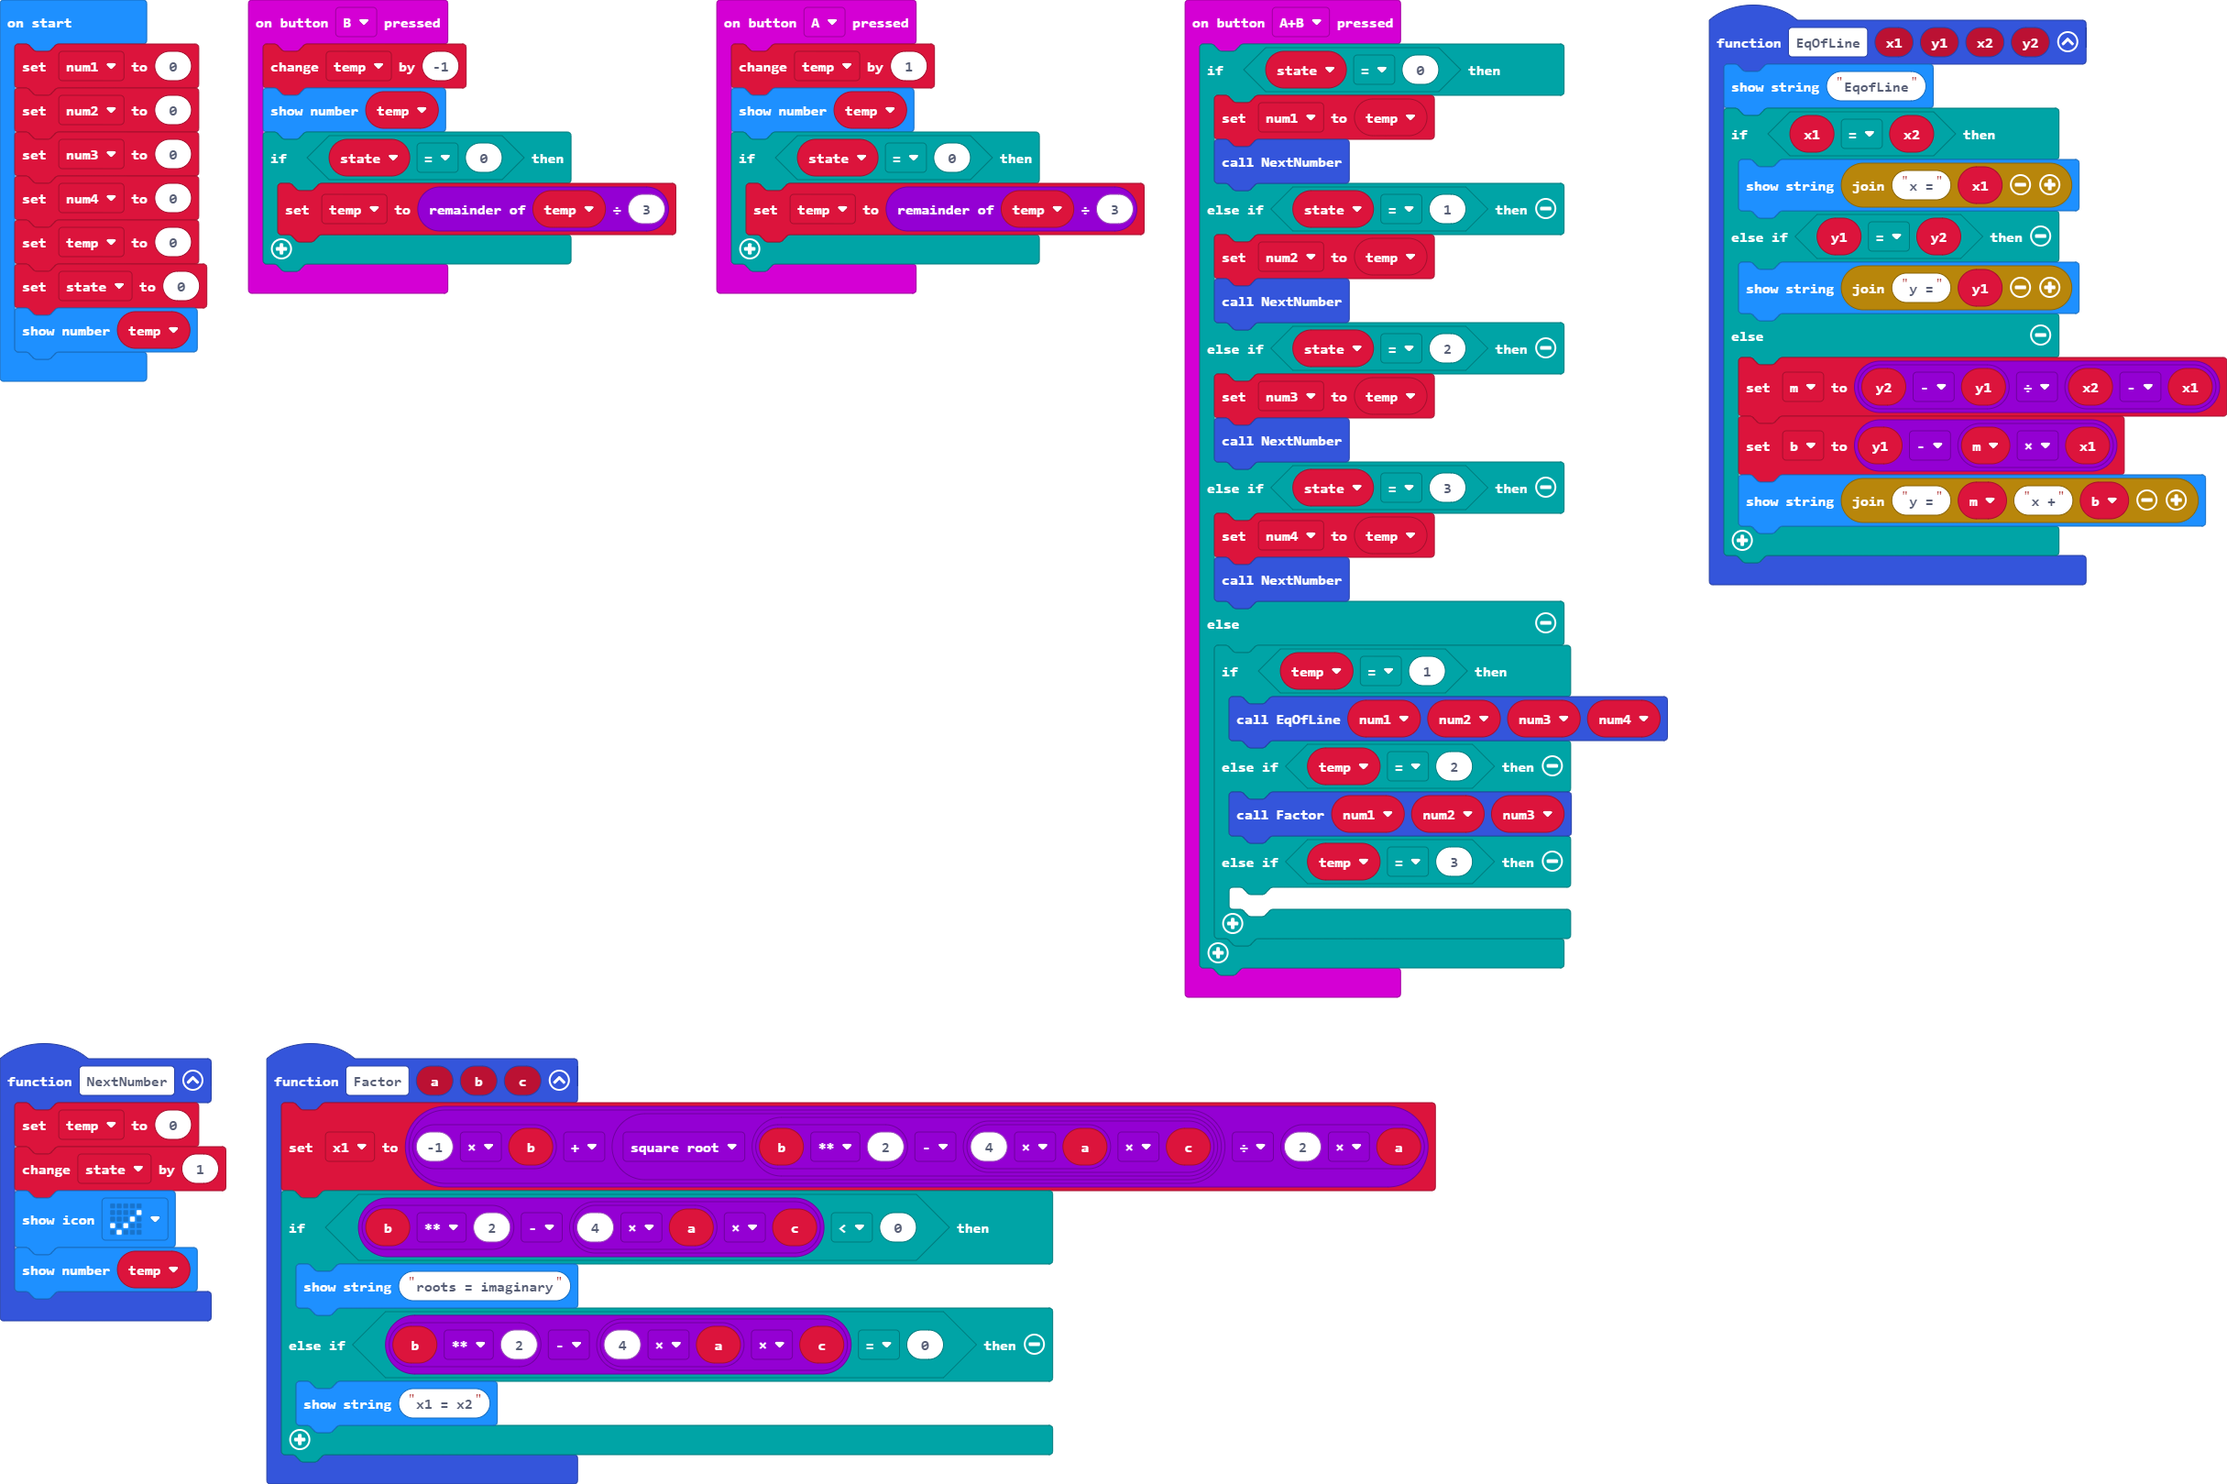
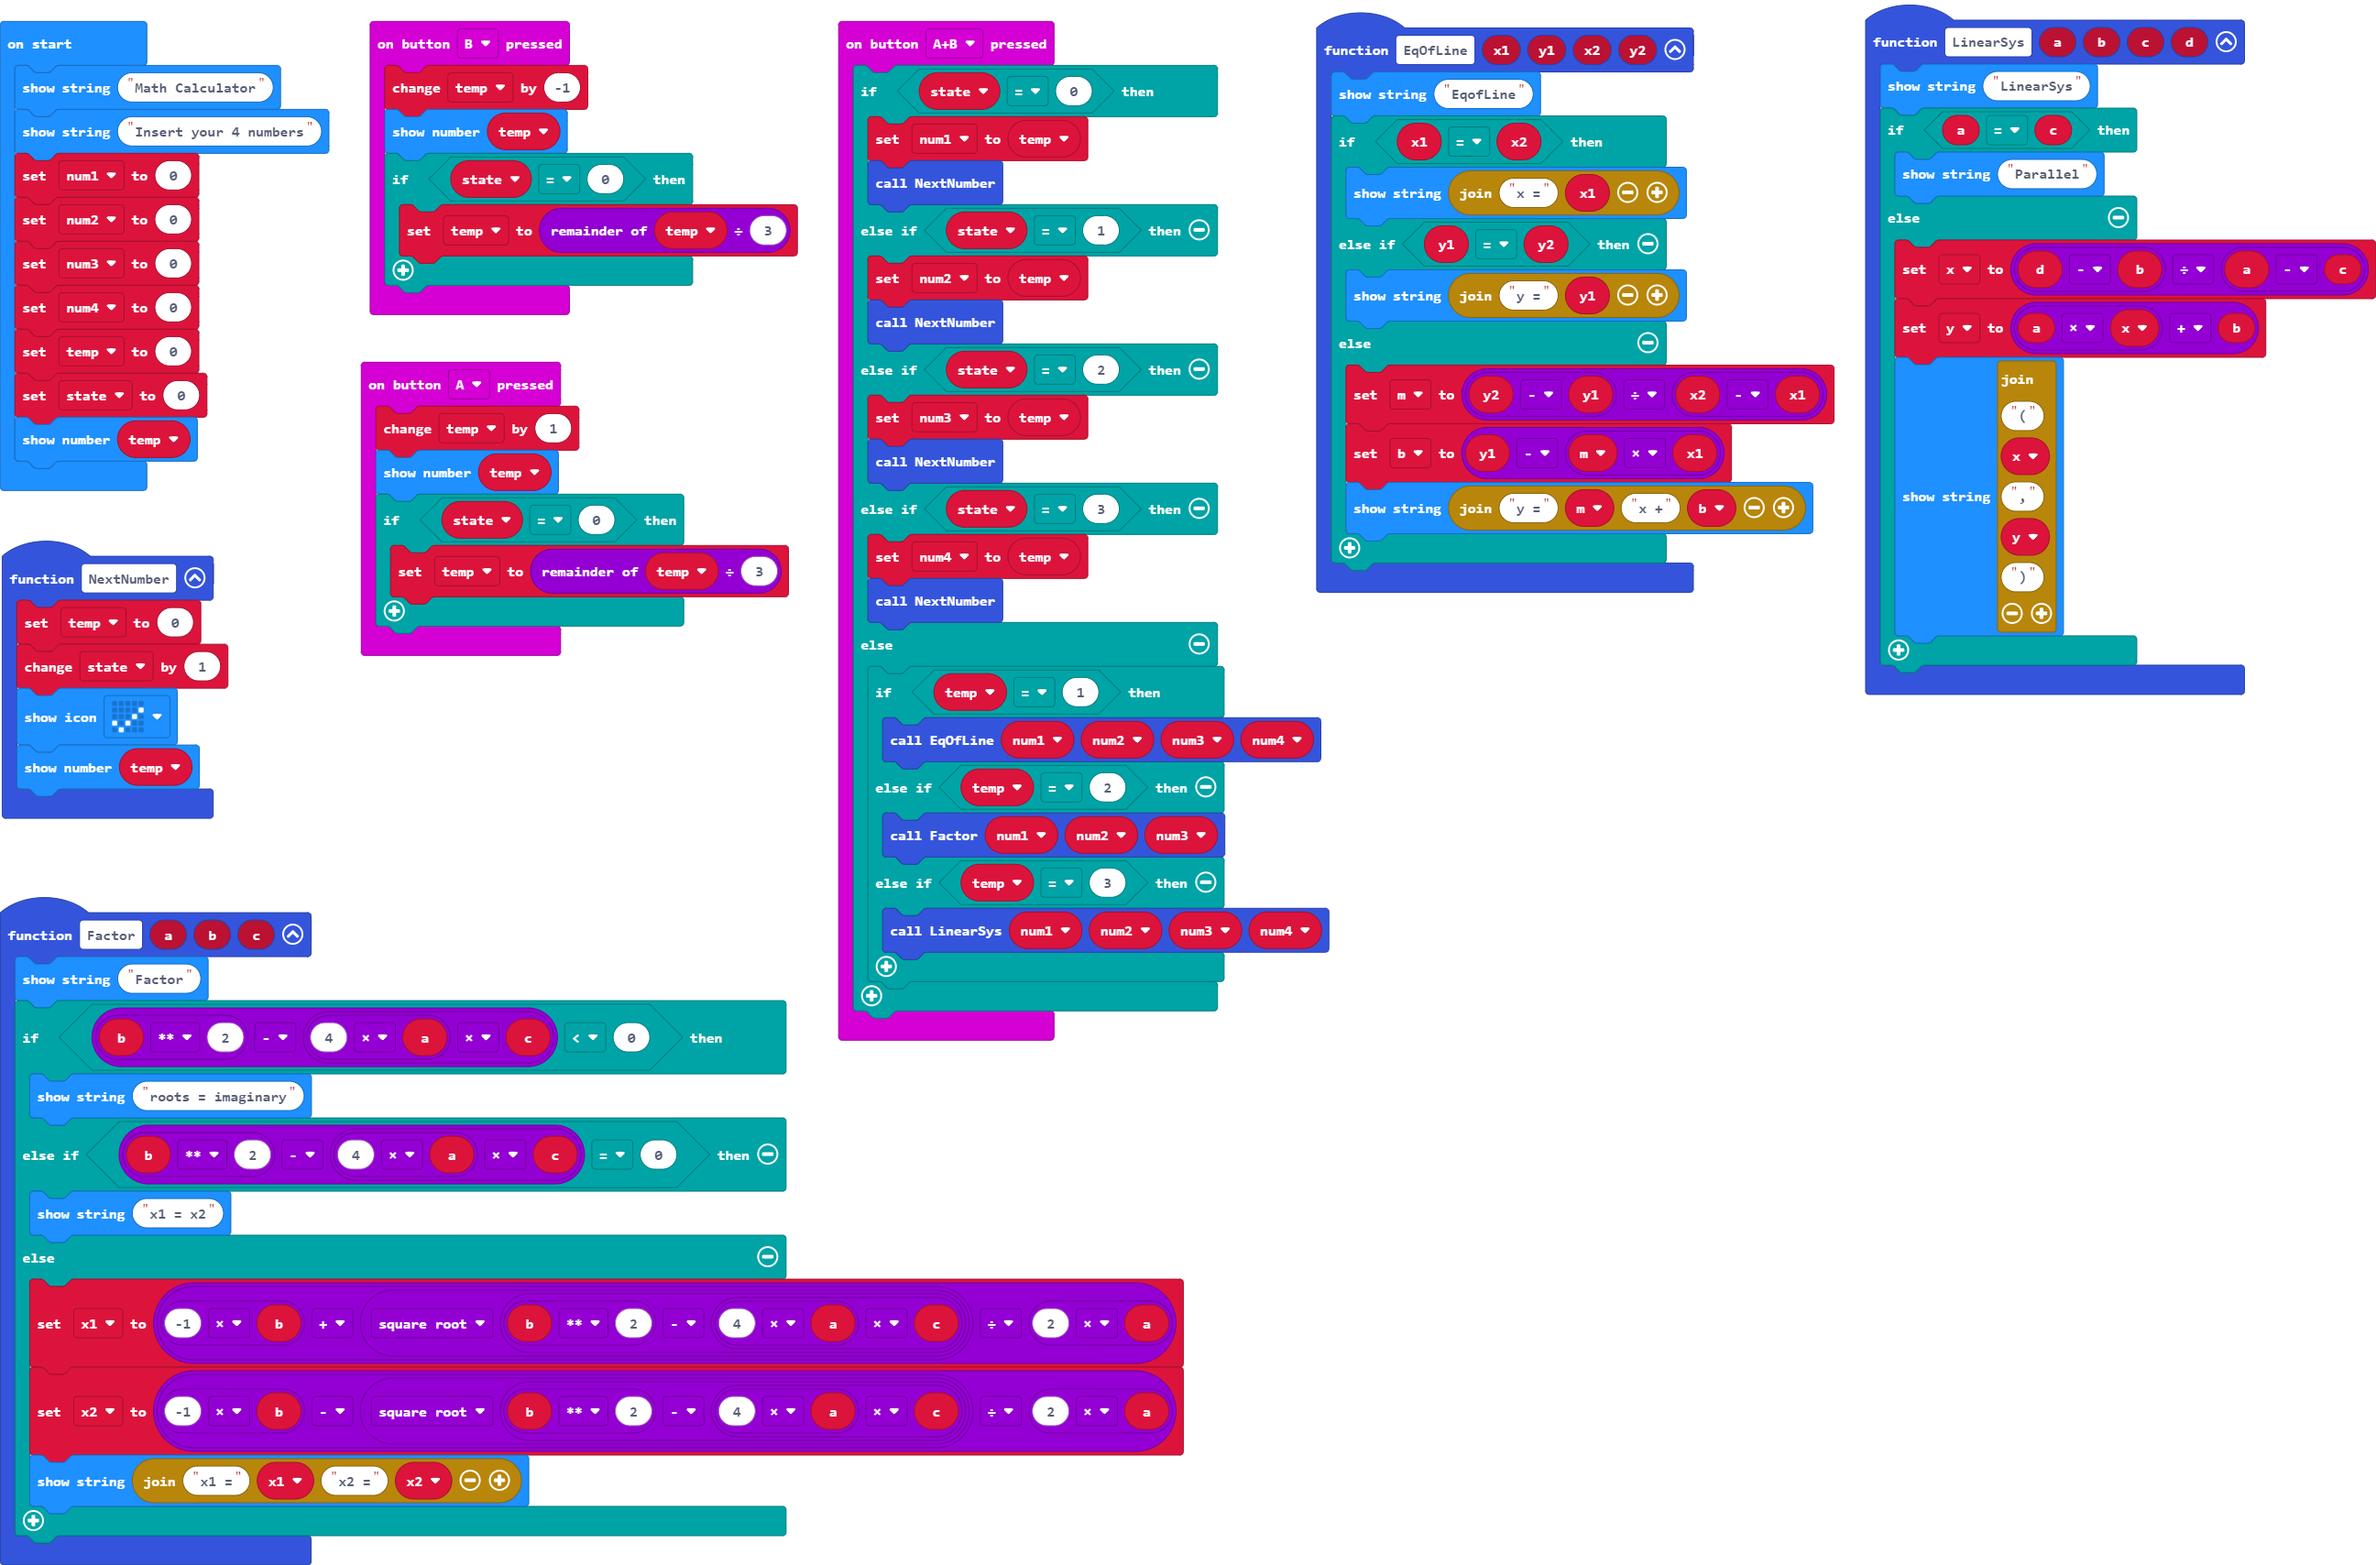
Update main.blocks, main.ts

diff --git a/main.ts b/main.ts
@@ -1,3 +1,13 @@
+function LinearSys (a: number, b: number, c: number, d: number) {
+    basic.showString("LinearSys")
+    if (a == c) {
+        basic.showString("Parallel")
+    } else {
+        x = (d - b) / (a - c)
+        y = a * x + b
+        basic.showString("(" + x + "," + y + ")")
+    }
+}
 input.onButtonPressed(Button.A, function () {
     temp += 1
     basic.showNumber(temp)
@@ -6,11 +16,15 @@ input.onButtonPressed(Button.A, function () {
     }
 })
 function Factor (a: number, b: number, c: number) {
-    x1 = (-1 * b + Math.sqrt(b ** 2 - 4 * a * c)) / (2 * a)
+    basic.showString("Factor")
     if (b ** 2 - 4 * a * c < 0) {
         basic.showString("roots = imaginary")
     } else if (b ** 2 - 4 * a * c == 0) {
         basic.showString("x1 = x2")
+    } else {
+        x1 = (-1 * b + Math.sqrt(b ** 2 - 4 * a * c)) / (2 * a)
+        x2 = (-1 * b - Math.sqrt(b ** 2 - 4 * a * c)) / (2 * a)
+        basic.showString("x1 =" + x1 + "x2 =" + x2)
     }
 }
 function NextNumber () {
@@ -38,7 +52,7 @@ input.onButtonPressed(Button.AB, function () {
         } else if (temp == 2) {
             Factor(num1, num2, num3)
         } else if (temp == 3) {
-        	
+            LinearSys(num1, num2, num3, num4)
         }
     }
 })
@@ -63,13 +77,18 @@ function EqOfLine (x1: number, y1: number, x2: number, y2: number) {
 }
 let b = 0
 let m = 0
+let x2 = 0
 let x1 = 0
+let y = 0
+let x = 0
 let state = 0
 let temp = 0
 let num4 = 0
 let num3 = 0
 let num2 = 0
 let num1 = 0
+basic.showString("Math Calculator")
+basic.showString("Insert your 4 numbers")
 num1 = 0
 num2 = 0
 num3 = 0
